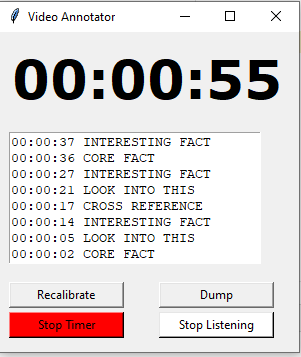
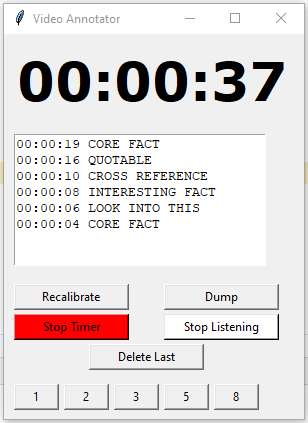
improved formatting

Changed region(s): [[0.0, 0.0, 1.0, 1.0]]

diff --git a/video_annotator.py b/video_annotator.py
@@ -7,28 +7,28 @@ from tkinter import ttk
 from tkinter import *
 
 # TODO: MODIFY these for your own purposes
-KEY_DICT = {"1" : "CORE FACT", "2" : "LOOK INTO THIS", "3" : "INTERESTING FACT", "5" : "CROSS REFERENCE"} #what they print out
+KEY_DICT = {"1" : "CORE FACT", "2" : "LOOK INTO THIS", "3" : "INTERESTING FACT", "5" : "CROSS REFERENCE", "8" : "QUOTABLE"} #what they print out
 JOG_LENGTH = 10 #how many seconds the arrow keys jog for
 
-
+# keys to listen for
 CRITICAL_KEYS = list(["space", "left", "right"])
 CRITICAL_KEYS.extend(KEY_DICT.keys())
-
+# key information variables
 monitoring = True
-additional_annotations = ""
 second_window = None
-
-root = tk.Tk()
-root.title("Video Annotator")
-root.attributes('-topmost',True)
 running = False
 counter = 0
-root.geometry('300x385+1200+300')
-
+database = list() #records the annotations
 beginning = time.time()
 reference_point = time.time()
 current_running_time = 0
 running_time = 0
+
+root = tk.Tk()
+root.title("Video Annotator")
+root.attributes('-topmost',True)
+root.geometry('300x385+1200+300')
+
 
 lbl = Label(
     root,
@@ -38,25 +38,22 @@ lbl = Label(
 )
 lbl.place(x=10, y=10)
 
-
 label_msg = Text(root, height = 8, width = 31, state = "disabled")
 label_msg.pack()
 label_msg.place(x=10, y=100)
 
-database = list() #records the annotations
-
+# for the hotkeys
 def new_button(key, offset):
     btn = Button(
         root,
         text=key,
         width=5,
-        command = lambda: new_msg(key)
+        command = lambda: NewMark(key)
     )
     btn.place(x=10 + 50 * offset, y=350)
 
 for i, key in enumerate(KEY_DICT.keys()):
     new_button(key, i)
-
 
 change_btn = Button(
     root,
@@ -70,7 +67,7 @@ dump_btn = Button(
     root,
     text='Dump',
     width=15,
-    command=lambda: dump_to_text(database)
+    command=lambda: DumpToText(database)
 )
 dump_btn.place(x=160, y=250)
 
@@ -96,17 +93,9 @@ undo_btn = Button(
     root,
     text='Delete Last',
     width=15,
-    command=lambda: undo()
+    command=lambda: Undo()
 )
 undo_btn.place(x=85, y=310)
-
-# undo_btn = Button(
-#     root,
-#     text='test',
-#     width=15,
-#     command=lambda: read_annotations()
-# )
-# undo_btn.place(x=85, y=310)
 
 def UpdateCounter(lbl):
     def count():
@@ -114,7 +103,7 @@ def UpdateCounter(lbl):
         global running_time
         if running:
             global counter
-            display = to_string(counter)
+            display = ToString(counter)
 
             lbl['text'] = display
             current_running_time = (time.time() - reference_point) + running_time
@@ -136,35 +125,26 @@ def ToggleTimer(lbl):
         running_time += time.time() - reference_point
         reference_point = time.time()
 
-def msgbox_close_routine(textBox):
+def OnAnnotationClose(textBox):
     global monitoring
     global second_window
     message = textBox.get("1.0", "end-1c")
-    database[-1] += f"\n\tAdditional Messages: {message}"
+    if len(message) > 0:
+        database[-1] += f"\n\tAdditional Messages: {message}"
     # return states back to normal
     monitoring = True
     second_window.destroy()
     second_window = None
 
-def read_annotations():
+def ReadAnnotations():
     global second_window
     global monitoring
     monitoring = False
     second_window = tk.Toplevel()
+    second_window.attributes('-topmost',True)
     textBox = Text(second_window, height=8, width=31)
     textBox.pack()
-    second_window.protocol("WM_DELETE_WINDOW", lambda: msgbox_close_routine(textBox))
-    # def retrieve_input(window):
-    #     global second_window
-    #     global monitoring
-    #     global database
-    #     message = textBox.get("1.0", "end-1c")
-    #     database[-1] += f"\n\tAdditional Messages: {message}"
-    #     monitoring = True
-    #     second_window.destroy()
-    #     second_window = None
-
-
+    second_window.protocol("WM_DELETE_WINDOW", lambda: OnAnnotationClose(textBox))
 
 def SetTimer(lbl):
     beg = time.time()
@@ -191,7 +171,7 @@ def SetTimer(lbl):
         running_time += diff #add the time passed
         reference_point = time.time() #push up the bar
 
-    lbl['text'] = to_string(running_time)
+    lbl['text'] = ToString(running_time)
     monitoring = True
 
 def ToggleIgnore():
@@ -200,7 +180,7 @@ def ToggleIgnore():
     ignore_btn["bg"] = "blue" if ignore_btn["bg"] == "white" else "white"
     ignore_btn["text"] = "Start Listening" if ignore_btn["text"] == "Stop Listening" else "Stop Listening"
 
-def to_string(counter):
+def ToString(counter):
     hours = counter // 3600
     mins = (counter - hours * 3600) // 60
     secs = counter % 60
@@ -212,14 +192,13 @@ def to_string(counter):
         secs = "0" + str(secs)
     return f"{hours}:{mins}:{secs}"
 
-def new_msg(button):
-    database.append(f"{to_string(counter)} {KEY_DICT[button]}")
-    # database[to_string(counter)] = KEY_DICT[button]
+def NewMark(button):
+    database.append(f"{ToString(counter)} {KEY_DICT[button]}")
     label_msg.configure(state="normal")
-    label_msg.insert("1.0", f"{to_string(counter)} {KEY_DICT[button]}\n")
+    label_msg.insert("1.0", f"{ToString(counter)} {KEY_DICT[button]}\n")
     label_msg.configure(state="disabled")
 
-def undo():
+def Undo():
     if len(database) > 0:
         database.pop() #removes the last entry
         label_msg.configure(state="normal")
@@ -231,7 +210,6 @@ def app_main_loop():
     global counter
     global running_time
     global current_running_time
-    global additional_annotations
     global second_window
     global monitoring
 
@@ -250,17 +228,15 @@ def app_main_loop():
                     running_time -= JOG_LENGTH
             elif button == "right":
                 running_time += JOG_LENGTH
-            elif button == "esc" and second_window is not None:
-                print("escaped!")
-                second_window.destroy()
-                second_window = None
-                monitoring = True
+            elif button == "esc":
+                if second_window is not None:
+                    second_window.destroy()
+                    second_window = None
+                    monitoring = True
             else:
-                new_msg(button)
-                read_annotations()
+                NewMark(button)
+                ReadAnnotations()
         time.sleep(0.05)  # seconds
-
-
 
 def _check_critical_keys_pressed(input_queue):
     while True:
@@ -290,7 +266,7 @@ def _check_critical_keys_pressed(input_queue):
             if done:
                 break
 
-def dump_to_text(database):
+def DumpToText(database):
     with open(f"dump_{time.time()}.txt", "w") as f:
         print("******* REPORT GENERATED BELOW THIS LINE *******")
         for elem in database:
@@ -307,4 +283,4 @@ if __name__ == "__main__":
 
     # Run the UI's main loop
     root.mainloop()
-    dump_to_text(database)
+    DumpToText(database)

diff --git a/README.md b/README.md
@@ -5,7 +5,8 @@ This simple python program separates the annotation program from the playback pr
 
 You can also use this during narrative interviews, or during rehearsal run-throughs. Anything that requires live annotation, this is your tool! 
 
-It is worth noting that because it is written in python, it can lag. However, this does *not* impact the accuracy of the timestamp, as it references system time directly. 
+Because the timer uses system time, it should not lag behind. The timer has been stress tested on a one-hour-long video, and it keeps in lock-step with the YouTube player. 
+
 # Quick Start
 Install `tkinter` (`tk` in pip) and `keyboard`. Then, run the program. You will see a window that contains a timestamp, a text box, and three buttons. 
 
@@ -19,15 +20,17 @@ To annotate, the number keys to mark points in the video. As it stands:
 - the "2" key marks LOOK INTO THIS
 - the "3" key marks INTERESTING FACT
 - the "5" key marks CROSS REFERENCE
+- the "8" key marks QUOTABLE
 
+After you add a mark, another window will pop up. You can type additional annotations into this window. Press the "X" on the window to save the annotations (won't be displayed, but it will be saved to the text dump). Press `esc` to exit without saving.
 The annotations can be easily changed in the code, if needed. 
 
-Note that the 4 key is not used because it conflicts with the jogging, for some reason. 
+Note that the 4 and 6 key is not used because it conflicts with the jogging, for some reason. 
 
 At the very end, just close out of the window, and the annotations are automatically dumped to a text file found in the same directory as the `video_annotator.py` code.
 
 # Advanced Features
-There are four buttons on the window. The first one, `Recalibrate`, allows you to enter a custom time into the timer using the command line interface.  A neat trick: press the "recalibrate" button on a round number on your video player but keep the video playing. Put this value into the recalibration; the timer will be running in the background and will add your number accordingly. This allows for live recalibration, and I found it personally super useful.
+There are five large buttons on the window. The first one, `Recalibrate`, allows you to enter a custom time into the timer using the command line interface.  A neat trick: press the "recalibrate" button on a round number on your video player but keep the video playing. Put this value into the recalibration; the timer will be running in the background and will add your number accordingly. This allows for live recalibration, and I found it personally super useful.
 
 The second one, `Dump`, allows you to export the annotations to a text file without closing the window (good for backups)
 
@@ -35,7 +38,9 @@ The third one, `Start / Stop Timer`, allows you to start and stop the timestamp 
 
 The fourth one, `Stop / Start Listening`, allows you to momentarily stop the key monitoring, if you're typing something. 
 
-Because the timer uses system time, it should not lag behind. The timer has been stress tested on a one-hour-long video, and it keeps in lock-step with the YouTube player. 
+The fifth one, `Delete Last` allows you to remove the last tag, which is helpful if you've messed up. 
+
+There are also smaller buttons that correspond to the individual marks. This is helpful if you want to use your mouse to annotate instead of hotkeys.
 
 # Screenshot
 ![screenshot](./demo.png)
